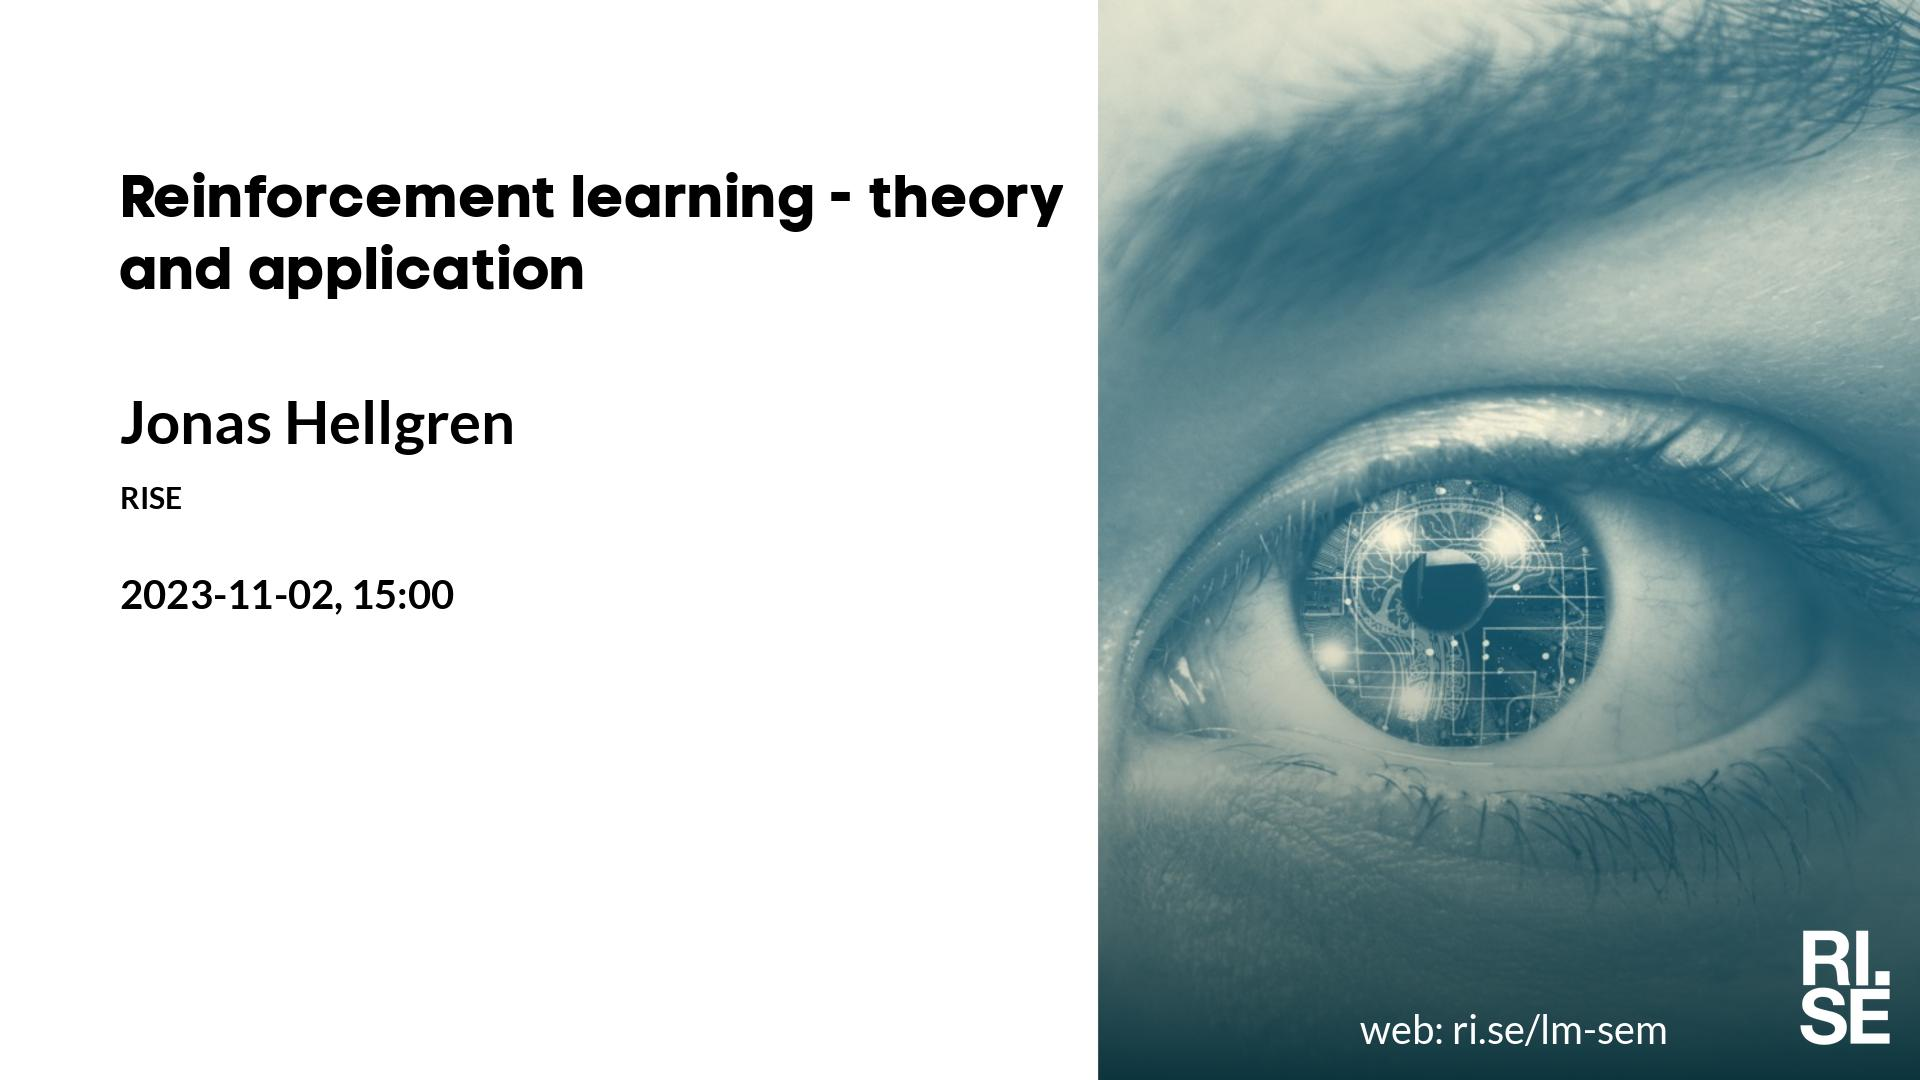
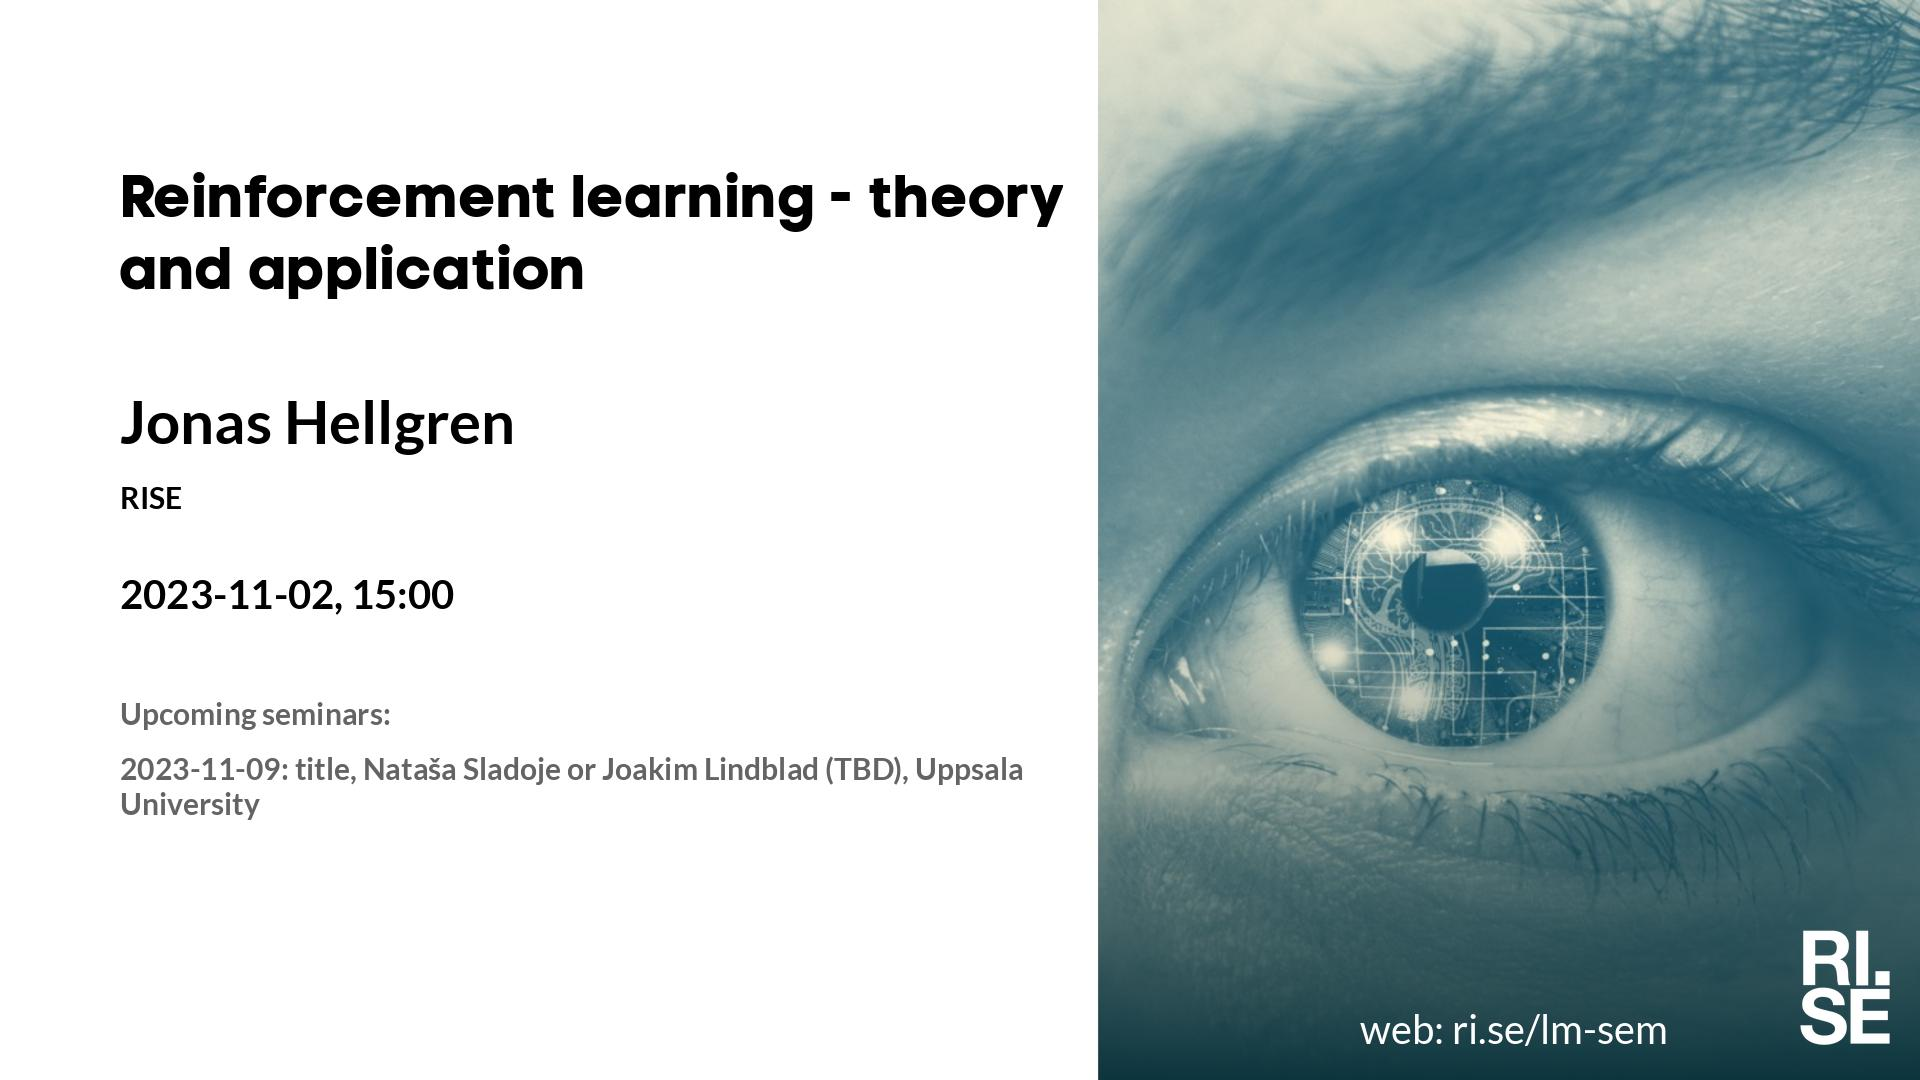
Updated plan on web site.

Changed region(s): [[0.0625, 0.7028, 0.5312, 0.7639], [0.0625, 0.6417, 0.2188, 0.6722]]

diff --git a/lm/index.md b/lm/index.md
@@ -19,7 +19,7 @@ table {border-collapse: collapse;}
 |  2023-10-19  |  [Valentin De Bortoli, ENS Ulm, Paris](2023-10-19.md)  |  [photo](photo-valentin-de-bortoli.jpg)  |  [social media ](social-media-valentin-de-bortoli.jpg)  |  [meeting backdrop ](meeting-backdrop-valentin-de-bortoli.jpg)  |  [youtube thumbnail ](youtube-thumbnail-valentin-de-bortoli.jpg)  |  STABP  |
 | <span style="color:grey"> 2023-10-26 </span> | <span style="color:grey"> Priya L. D. ? </span> | <span style="color:grey">  </span> | <span style="color:grey">  </span> | <span style="color:grey">  </span> | <span style="color:grey">  </span> | <span style="color:grey"> STAB~~P~~ </span> |
 |  2023-11-02  |  [Jonas Hellgren, RISE](2023-11-02.md)  |    |  [social media ](social-media-jonas-hellgren.jpg)  |  [meeting backdrop ](meeting-backdrop-jonas-hellgren.jpg)  |  [youtube thumbnail ](youtube-thumbnail-jonas-hellgren.jpg)  |  STAB~~P~~  |
-| <span style="color:grey"> 2023-11-09 </span> | <span style="color:grey"> Nataša S. o. J. L. (. ? </span> | <span style="color:grey">  </span> | <span style="color:grey">  </span> | <span style="color:grey">  </span> | <span style="color:grey">  </span> | <span style="color:grey"> STAB~~P~~ </span> |
+|  2023-11-09  |  [Nataša Sladoje or Joakim Lindblad (TBD), Uppsala University](2023-11-09.md)  |    |  [social media ](social-media-natasa-sladoje-or-joakim-lindblad-(tbd).jpg)  |  [meeting backdrop ](meeting-backdrop-natasa-sladoje-or-joakim-lindblad-(tbd).jpg)  |  [youtube thumbnail ](youtube-thumbnail-natasa-sladoje-or-joakim-lindblad-(tbd).jpg)  |  STAB~~P~~  |
 | <span style="color:purple"> 2023-11-16 </span> | <span style="color:purple"> *Up for grabs!!!* </span> | <span style="color:purple">  </span> | <span style="color:purple">  </span> | <span style="color:purple">  </span> | <span style="color:purple">  </span> | <span style="color:purple"> ~~S~~TAB~~P~~ </span> |
 | <span style="color:purple"> 2023-11-23 </span> | <span style="color:purple"> *Up for grabs!!!* </span> | <span style="color:purple">  </span> | <span style="color:purple">  </span> | <span style="color:purple">  </span> | <span style="color:purple">  </span> | <span style="color:purple"> ~~S~~TAB~~P~~ </span> |
 | <span style="color:purple"> 2023-11-30 </span> | <span style="color:purple"> *Up for grabs!!!* </span> | <span style="color:purple">  </span> | <span style="color:purple">  </span> | <span style="color:purple">  </span> | <span style="color:purple">  </span> | <span style="color:purple"> ~~S~~TAB~~P~~ </span> |

diff --git a/lm/2023-11-09.md b/lm/2023-11-09.md
@@ -6,7 +6,7 @@ Welcome to this week's Learning Machines seminar.
 
 **Title:** N/A
 
-**Speaker:** Valentin De Bortoli, ENS Ulm, Paris
+**Speaker:** Nataša Sladoje or Joakim Lindblad (TBD), Uppsala University
 
 **Abstract:** N/A
 
@@ -16,10 +16,6 @@ Welcome to this week's Learning Machines seminar.
 
 **Zoom link:** [https://rise.zoom.us/j/208117140](https://rise.zoom.us/j/208117140)
 
-**Upcoming seminars:**
-
-* 2023-11-02: *Reinforcement learning - theory, toy problems from Open AI Gym, and application examples*, Jonas Hellgren, RISE
-* 2023-11-09: *title*, Nataša Sladoje or Joakim Lindblad (TBD), Uppsala University
 
 More information and coming seminars: [https://ri.se/lm-sem](https://ri.se/lm-sem)
 

diff --git a/lm/2023-11-02.md b/lm/2023-11-02.md
@@ -16,6 +16,9 @@ Welcome to this week's Learning Machines seminar.
 
 **Zoom link:** [https://rise.zoom.us/j/208117140?pwd=c0tQUXBNbUhXS0ZtRGFSSTc0SDFRQT09](https://rise.zoom.us/j/208117140?pwd=c0tQUXBNbUhXS0ZtRGFSSTc0SDFRQT09)
 
+**Upcoming seminars:**
+
+* 2023-11-09: *title*, Nataša Sladoje or Joakim Lindblad (TBD), Uppsala University
 
 More information and coming seminars: [https://ri.se/lm-sem](https://ri.se/lm-sem)
 
